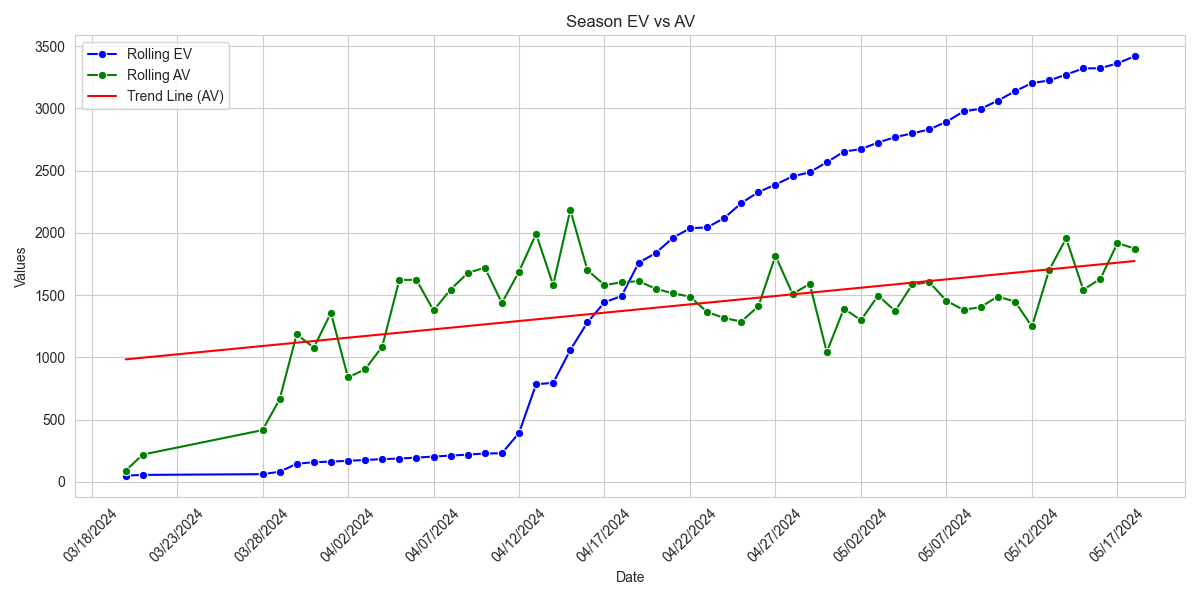
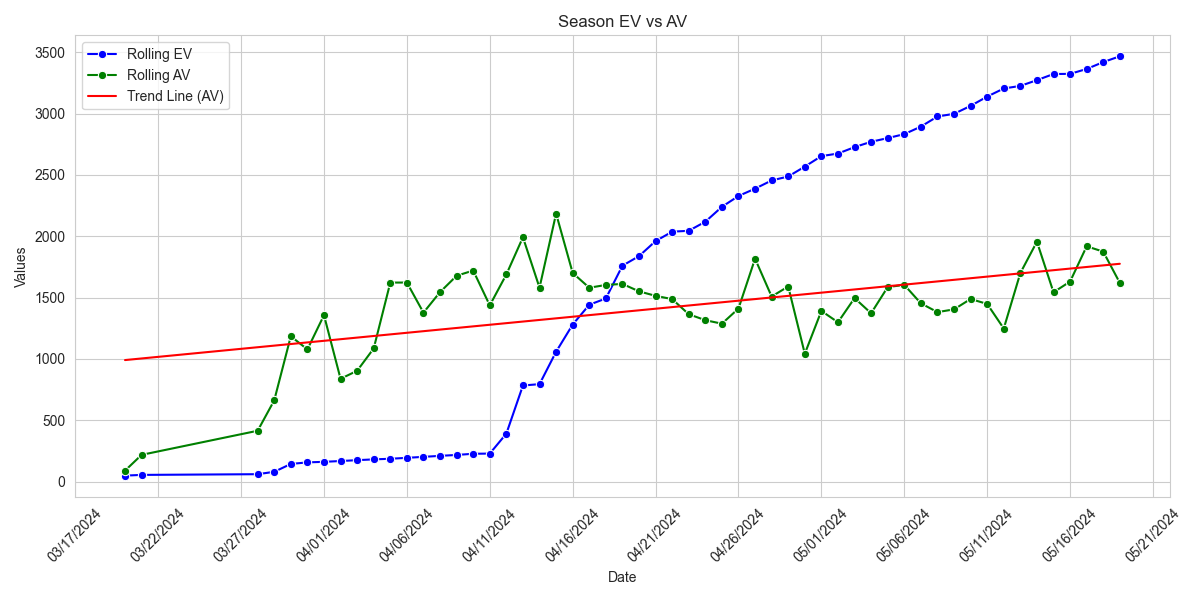
web

diff --git a/index.html b/index.html
@@ -1,1 +1,1 @@
-<html><head><meta name="viewport" content="width=device-width, initial-scale=1"><meta http-equiv="Cache-Control" content="no-cache, no-store, must-revalidate"><meta http-equiv="Pragma" content="no-cache"><meta http-equiv="Expires" content="0"><title>MLB Shit</title><link rel="stylesheet" type="text/css" href="styles.css"></head><body><p><b>Daily Picks</b></p><table><tr><th>Date</th><th>Team</th><th>Price</th><th>Bet</th><th>Win</th><th>WP</th><th>EV</th><th>Type</th><th>Result</th></tr><tr><td>05/19/2024</td><td><img src='https://www.mlbstatic.com/team-logos/139.svg' height=30 width=30></td><td>-108</td><td>$85.00</td><td>$78.70</td><td>55.3%</td><td>5.5%</td><td>Dog</td><td>L</td></td><tr><td>05/19/2024</td><td><img src='https://www.mlbstatic.com/team-logos/142.svg' height=30 width=30></td><td>+100</td><td>$75.25</td><td>$75.25</td><td>50.1%</td><td>0.2%</td><td>Dog</td><td>L</td></td><tr><td>05/19/2024</td><td><img src='https://www.mlbstatic.com/team-logos/121.svg' height=30 width=30></td><td>-142</td><td>$94.25</td><td>$66.37</td><td>61.1%</td><td>3.9%</td><td>Fav</td><td>W</td></td><tr><td>05/19/2024</td><td><img src='https://www.mlbstatic.com/team-logos/112.svg' height=30 width=30></td><td>-125</td><td>$110.00</td><td>$88.00</td><td>67.2%</td><td>23.1%</td><td>Fav</td><td>L</td></td><tr><td>05/19/2024</td><td><img src='https://www.mlbstatic.com/team-logos/108.svg' height=30 width=30></td><td>+130</td><td>$66.50</td><td>$86.45</td><td>43.9%</td><td>0.6%</td><td>Dog</td><td>W</td></td><tr><td>05/19/2024</td><td><img src='https://www.mlbstatic.com/team-logos/116.svg' height=30 width=30></td><td>+130</td><td>$77.50</td><td>$100.75</td><td>49.7%</td><td>11.1%</td><td>Dog</td><td>L</td></td><tr><td>05/19/2024</td><td><img src='https://www.mlbstatic.com/team-logos/138.svg' height=30 width=30></td><td>+110</td><td>$74.25</td><td>$81.68</td><td>49.0%</td><td>2.2%</td><td>Dog</td><td>L</td></td><tr><td>05/19/2024</td><td><img src='https://www.mlbstatic.com/team-logos/135.svg' height=30 width=30></td><td>+102</td><td>$74.25</td><td>$75.74</td><td>49.6%</td><td>0.1%</td><td>Dog</td><td></td></td><tr><td>05/19/2024</td><td><img src='https://www.mlbstatic.com/team-logos/113.svg' height=30 width=30></td><td>+150</td><td>$61.25</td><td>$91.88</td><td>40.3%</td><td>0.5%</td><td>Dog</td><td></td></td><tr><th colspan=9><B>SUMMARY: $135.50 in play to win $167.62</B></th></tr><tr><th colspan=9><B>LAST UPDATED: 05/19/2024 06:49 PM</B></th></tr></table><p><b>Monthly Totals</b></p><table><tr><th>Date</th><th>Profit</th><th>W/L</th><th>Favs</th><th>Dogs</th><th>Fav $</th><th>Dog $</th></tr><tr><td>05/01/2024</td><td>$348.92</td><td>8-4</td><td>4-1</td><td>4-3</td><td>$187.12</td><td>$161.80</td></td><tr><td>05/02/2024</td><td>$-92.44</td><td>1-2</td><td>0-1</td><td>1-1</td><td>$-94.75</td><td>$2.31</td></td><tr><td>05/03/2024</td><td>$197.01</td><td>7-5</td><td>3-1</td><td>4-4</td><td>$125.59</td><td>$71.42</td></td><tr><td>05/04/2024</td><td>$-123.54</td><td>4-6</td><td>1-1</td><td>3-5</td><td>$-32.70</td><td>$-90.84</td></td><tr><td>05/05/2024</td><td>$213.29</td><td>6-4</td><td>0-1</td><td>6-3</td><td>$-80.50</td><td>$293.79</td></td><tr><td>05/06/2024</td><td>$17.89</td><td>4-3</td><td>3-1</td><td>1-2</td><td>$83.64</td><td>$-65.75</td></td><tr><td>05/07/2024</td><td>$-150.23</td><td>4-5</td><td>3-3</td><td>1-2</td><td>$-94.63</td><td>$-55.60</td></td><tr><td>05/08/2024</td><td>$-71.74</td><td>5-6</td><td>4-2</td><td>1-4</td><td>$119.06</td><td>$-190.80</td></td><tr><td>05/09/2024</td><td>$22.55</td><td>3-2</td><td>1-2</td><td>2-0</td><td>$-141.33</td><td>$163.88</td></td><tr><td>05/10/2024</td><td>$84.48</td><td>8-6</td><td>5-4</td><td>3-2</td><td>$-58.90</td><td>$143.38</td></td><tr><td>05/11/2024</td><td>$-40.33</td><td>6-6</td><td>5-3</td><td>1-3</td><td>$63.27</td><td>$-103.60</td></td><tr><td>05/12/2024</td><td>$-200.12</td><td>4-5</td><td>3-3</td><td>1-2</td><td>$-117.30</td><td>$-82.82</td></td><tr><td>05/13/2024</td><td>$451.92</td><td>7-1</td><td>3-0</td><td>4-1</td><td>$197.94</td><td>$253.98</td></td><tr><td>05/14/2024</td><td>$255.63</td><td>5-1</td><td>3-1</td><td>2-0</td><td>$87.08</td><td>$168.55</td></td><tr><td>05/15/2024</td><td>$-412.51</td><td>3-9</td><td>0-2</td><td>3-7</td><td>$-175.75</td><td>$-236.76</td></td><tr><td>05/16/2024</td><td>$87.43</td><td>1-0</td><td>0</td><td>1-0</td><td>$0.00</td><td>$87.43</td></td><tr><td>05/17/2024</td><td>$287.48</td><td>5-2</td><td>2-1</td><td>3-1</td><td>$37.50</td><td>$249.98</td></td><tr><td>05/18/2024</td><td>$-43.65</td><td>5-5</td><td>2-3</td><td>3-2</td><td>$-172.94</td><td>$129.29</td></td><tr><td>05/19/2024</td><td>$-269.18</td><td>2-5</td><td>1-1</td><td>1-4</td><td>$-43.63</td><td>$-225.55</td></td><tr><th colspan=7>TOTALS</th></tr><tr><th colspan=2>Monthly Profit</th><th colspan=2>W%</th><th>Fav W%</th><th>Dog W%</th><th>Predicted Upset W%</th></tr><tr><td colspan=2>$562.86</td><td colspan=2>53.3%</td><td>58.1%</td><td>49.5%</td><td>55.2%</td></tr></table><p><b>Season Totals</b></p><table width="30%"><tr><th width="25%">Month</th><th width="25%">Profit</th><th width="25%" colspan=2>Bankroll Growth</th></tr><tr><td>March</td><td>$1,077.72</td><td colspan=2>13.4715%</td></td><tr><td>April</td><td>$-35.26</td><td colspan=2>-0.44075%</td></td><tr><td>May</td><td>$562.86</td><td colspan=2>7.03575%</td></td><tr><td><b><i>TOTAL</i></b></td><td><b><i>$1,605.32</i></b></td><td colspan=2><b><i>20.0665%</i></b></td></td><tr><th colspan=4>Performance</th></tr><tr><th>Season W%</th><th>Fav W%</th><th>Dog W%</th><th>Predicted Upset W%</th></tr><tr><td>53.1%</td><td>58.9%</td><td>48.3%</td><td>51.2%</td></tr></table><p><table><tr><td><img class="chart" src="images/ev_graph.png"></td></tr></table></p></body></html>
+<html><head><meta name="viewport" content="width=device-width, initial-scale=1"><meta http-equiv="Cache-Control" content="no-cache, no-store, must-revalidate"><meta http-equiv="Pragma" content="no-cache"><meta http-equiv="Expires" content="0"><title>MLB Shit</title><link rel="stylesheet" type="text/css" href="styles.css"></head><body><p><b>Daily Picks</b></p><table><tr><th>Date</th><th>Team</th><th>Price</th><th>Bet</th><th>Win</th><th>WP</th><th>EV</th><th>Type</th><th>Result</th></tr><tr><td>05/20/2024</td><td><img src='https://www.mlbstatic.com/team-logos/144.svg' height=30 width=30></td><td>-125</td><td>$86.00</td><td>$68.80</td><td>56.6%</td><td>1.6%</td><td>Fav</td><td></td></td><tr><td>05/20/2024</td><td><img src='https://www.mlbstatic.com/team-logos/135.svg' height=30 width=30></td><td>+185</td><td>$73.50</td><td>$135.98</td><td>45.5%</td><td>21.8%</td><td>Dog</td><td></td></td><tr><td>05/20/2024</td><td><img src='https://www.mlbstatic.com/team-logos/158.svg' height=30 width=30></td><td>-135</td><td>$95.00</td><td>$70.37</td><td>61.2%</td><td>6.2%</td><td>Fav</td><td></td></td><tr><td>05/20/2024</td><td><img src='https://www.mlbstatic.com/team-logos/120.svg' height=30 width=30></td><td>+136</td><td>$65.50</td><td>$89.08</td><td>43.1%</td><td>1.1%</td><td>Dog</td><td></td></td><tr><td>05/20/2024</td><td><img src='https://www.mlbstatic.com/team-logos/111.svg' height=30 width=30></td><td>-108</td><td>$108.50</td><td>$100.46</td><td>66.0%</td><td>29.4%</td><td>Dog</td><td></td></td><tr><td>05/20/2024</td><td><img src='https://www.mlbstatic.com/team-logos/136.svg' height=30 width=30></td><td>+120</td><td>$68.50</td><td>$82.20</td><td>45.5%</td><td>0.1%</td><td>Dog</td><td></td></td><tr><td>05/20/2024</td><td><img src='https://www.mlbstatic.com/team-logos/110.svg' height=30 width=30></td><td>-108</td><td>$96.75</td><td>$89.58</td><td>60.8%</td><td>16.5%</td><td>Dog</td><td></td></td><tr><td>05/20/2024</td><td><img src='https://www.mlbstatic.com/team-logos/108.svg' height=30 width=30></td><td>+170</td><td>$65.50</td><td>$111.35</td><td>41.8%</td><td>8.4%</td><td>Dog</td><td></td></td><tr><th colspan=9><B>SUMMARY: $659.25 in play to win $747.82</B></th></tr><tr><th colspan=9><B>LAST UPDATED: 05/20/2024 09:04 AM</B></th></tr></table><p><b>Monthly Totals</b></p><table><tr><th>Date</th><th>Profit</th><th>W/L</th><th>Favs</th><th>Dogs</th><th>Fav $</th><th>Dog $</th></tr><tr><td>05/01/2024</td><td>$348.92</td><td>8-4</td><td>4-1</td><td>4-3</td><td>$187.12</td><td>$161.80</td></td><tr><td>05/02/2024</td><td>$-92.44</td><td>1-2</td><td>0-1</td><td>1-1</td><td>$-94.75</td><td>$2.31</td></td><tr><td>05/03/2024</td><td>$197.01</td><td>7-5</td><td>3-1</td><td>4-4</td><td>$125.59</td><td>$71.42</td></td><tr><td>05/04/2024</td><td>$-123.54</td><td>4-6</td><td>1-1</td><td>3-5</td><td>$-32.70</td><td>$-90.84</td></td><tr><td>05/05/2024</td><td>$213.29</td><td>6-4</td><td>0-1</td><td>6-3</td><td>$-80.50</td><td>$293.79</td></td><tr><td>05/06/2024</td><td>$17.89</td><td>4-3</td><td>3-1</td><td>1-2</td><td>$83.64</td><td>$-65.75</td></td><tr><td>05/07/2024</td><td>$-150.23</td><td>4-5</td><td>3-3</td><td>1-2</td><td>$-94.63</td><td>$-55.60</td></td><tr><td>05/08/2024</td><td>$-71.74</td><td>5-6</td><td>4-2</td><td>1-4</td><td>$119.06</td><td>$-190.80</td></td><tr><td>05/09/2024</td><td>$22.55</td><td>3-2</td><td>1-2</td><td>2-0</td><td>$-141.33</td><td>$163.88</td></td><tr><td>05/10/2024</td><td>$84.48</td><td>8-6</td><td>5-4</td><td>3-2</td><td>$-58.90</td><td>$143.38</td></td><tr><td>05/11/2024</td><td>$-40.33</td><td>6-6</td><td>5-3</td><td>1-3</td><td>$63.27</td><td>$-103.60</td></td><tr><td>05/12/2024</td><td>$-200.12</td><td>4-5</td><td>3-3</td><td>1-2</td><td>$-117.30</td><td>$-82.82</td></td><tr><td>05/13/2024</td><td>$451.92</td><td>7-1</td><td>3-0</td><td>4-1</td><td>$197.94</td><td>$253.98</td></td><tr><td>05/14/2024</td><td>$255.63</td><td>5-1</td><td>3-1</td><td>2-0</td><td>$87.08</td><td>$168.55</td></td><tr><td>05/15/2024</td><td>$-412.51</td><td>3-9</td><td>0-2</td><td>3-7</td><td>$-175.75</td><td>$-236.76</td></td><tr><td>05/16/2024</td><td>$87.43</td><td>1-0</td><td>0</td><td>1-0</td><td>$0.00</td><td>$87.43</td></td><tr><td>05/17/2024</td><td>$287.48</td><td>5-2</td><td>2-1</td><td>3-1</td><td>$37.50</td><td>$249.98</td></td><tr><td>05/18/2024</td><td>$-43.65</td><td>5-5</td><td>2-3</td><td>3-2</td><td>$-172.94</td><td>$129.29</td></td><tr><td>05/19/2024</td><td>$-254.69</td><td>3-6</td><td>1-1</td><td>2-5</td><td>$-43.63</td><td>$-211.06</td></td><tr><th colspan=7>TOTALS</th></tr><tr><th colspan=2>Monthly Profit</th><th colspan=2>W%</th><th>Fav W%</th><th>Dog W%</th><th>Predicted Upset W%</th></tr><tr><td colspan=2>$577.35</td><td colspan=2>53.3%</td><td>58.1%</td><td>49.5%</td><td>55.2%</td></tr></table><p><b>Season Totals</b></p><table width="30%"><tr><th width="25%">Month</th><th width="25%">Profit</th><th width="25%" colspan=2>Bankroll Growth</th></tr><tr><td>March</td><td>$1,077.72</td><td colspan=2>13.4715%</td></td><tr><td>April</td><td>$-35.26</td><td colspan=2>-0.44075%</td></td><tr><td>May</td><td>$577.35</td><td colspan=2>7.216875%</td></td><tr><td><b><i>TOTAL</i></b></td><td><b><i>$1,619.81</i></b></td><td colspan=2><b><i>20.247625%</i></b></td></td><tr><th colspan=4>Performance</th></tr><tr><th>Season W%</th><th>Fav W%</th><th>Dog W%</th><th>Predicted Upset W%</th></tr><tr><td>53.1%</td><td>58.9%</td><td>48.4%</td><td>51.2%</td></tr></table><p><table><tr><td><img class="chart" src="images/ev_graph.png"></td></tr></table></p></body></html>
